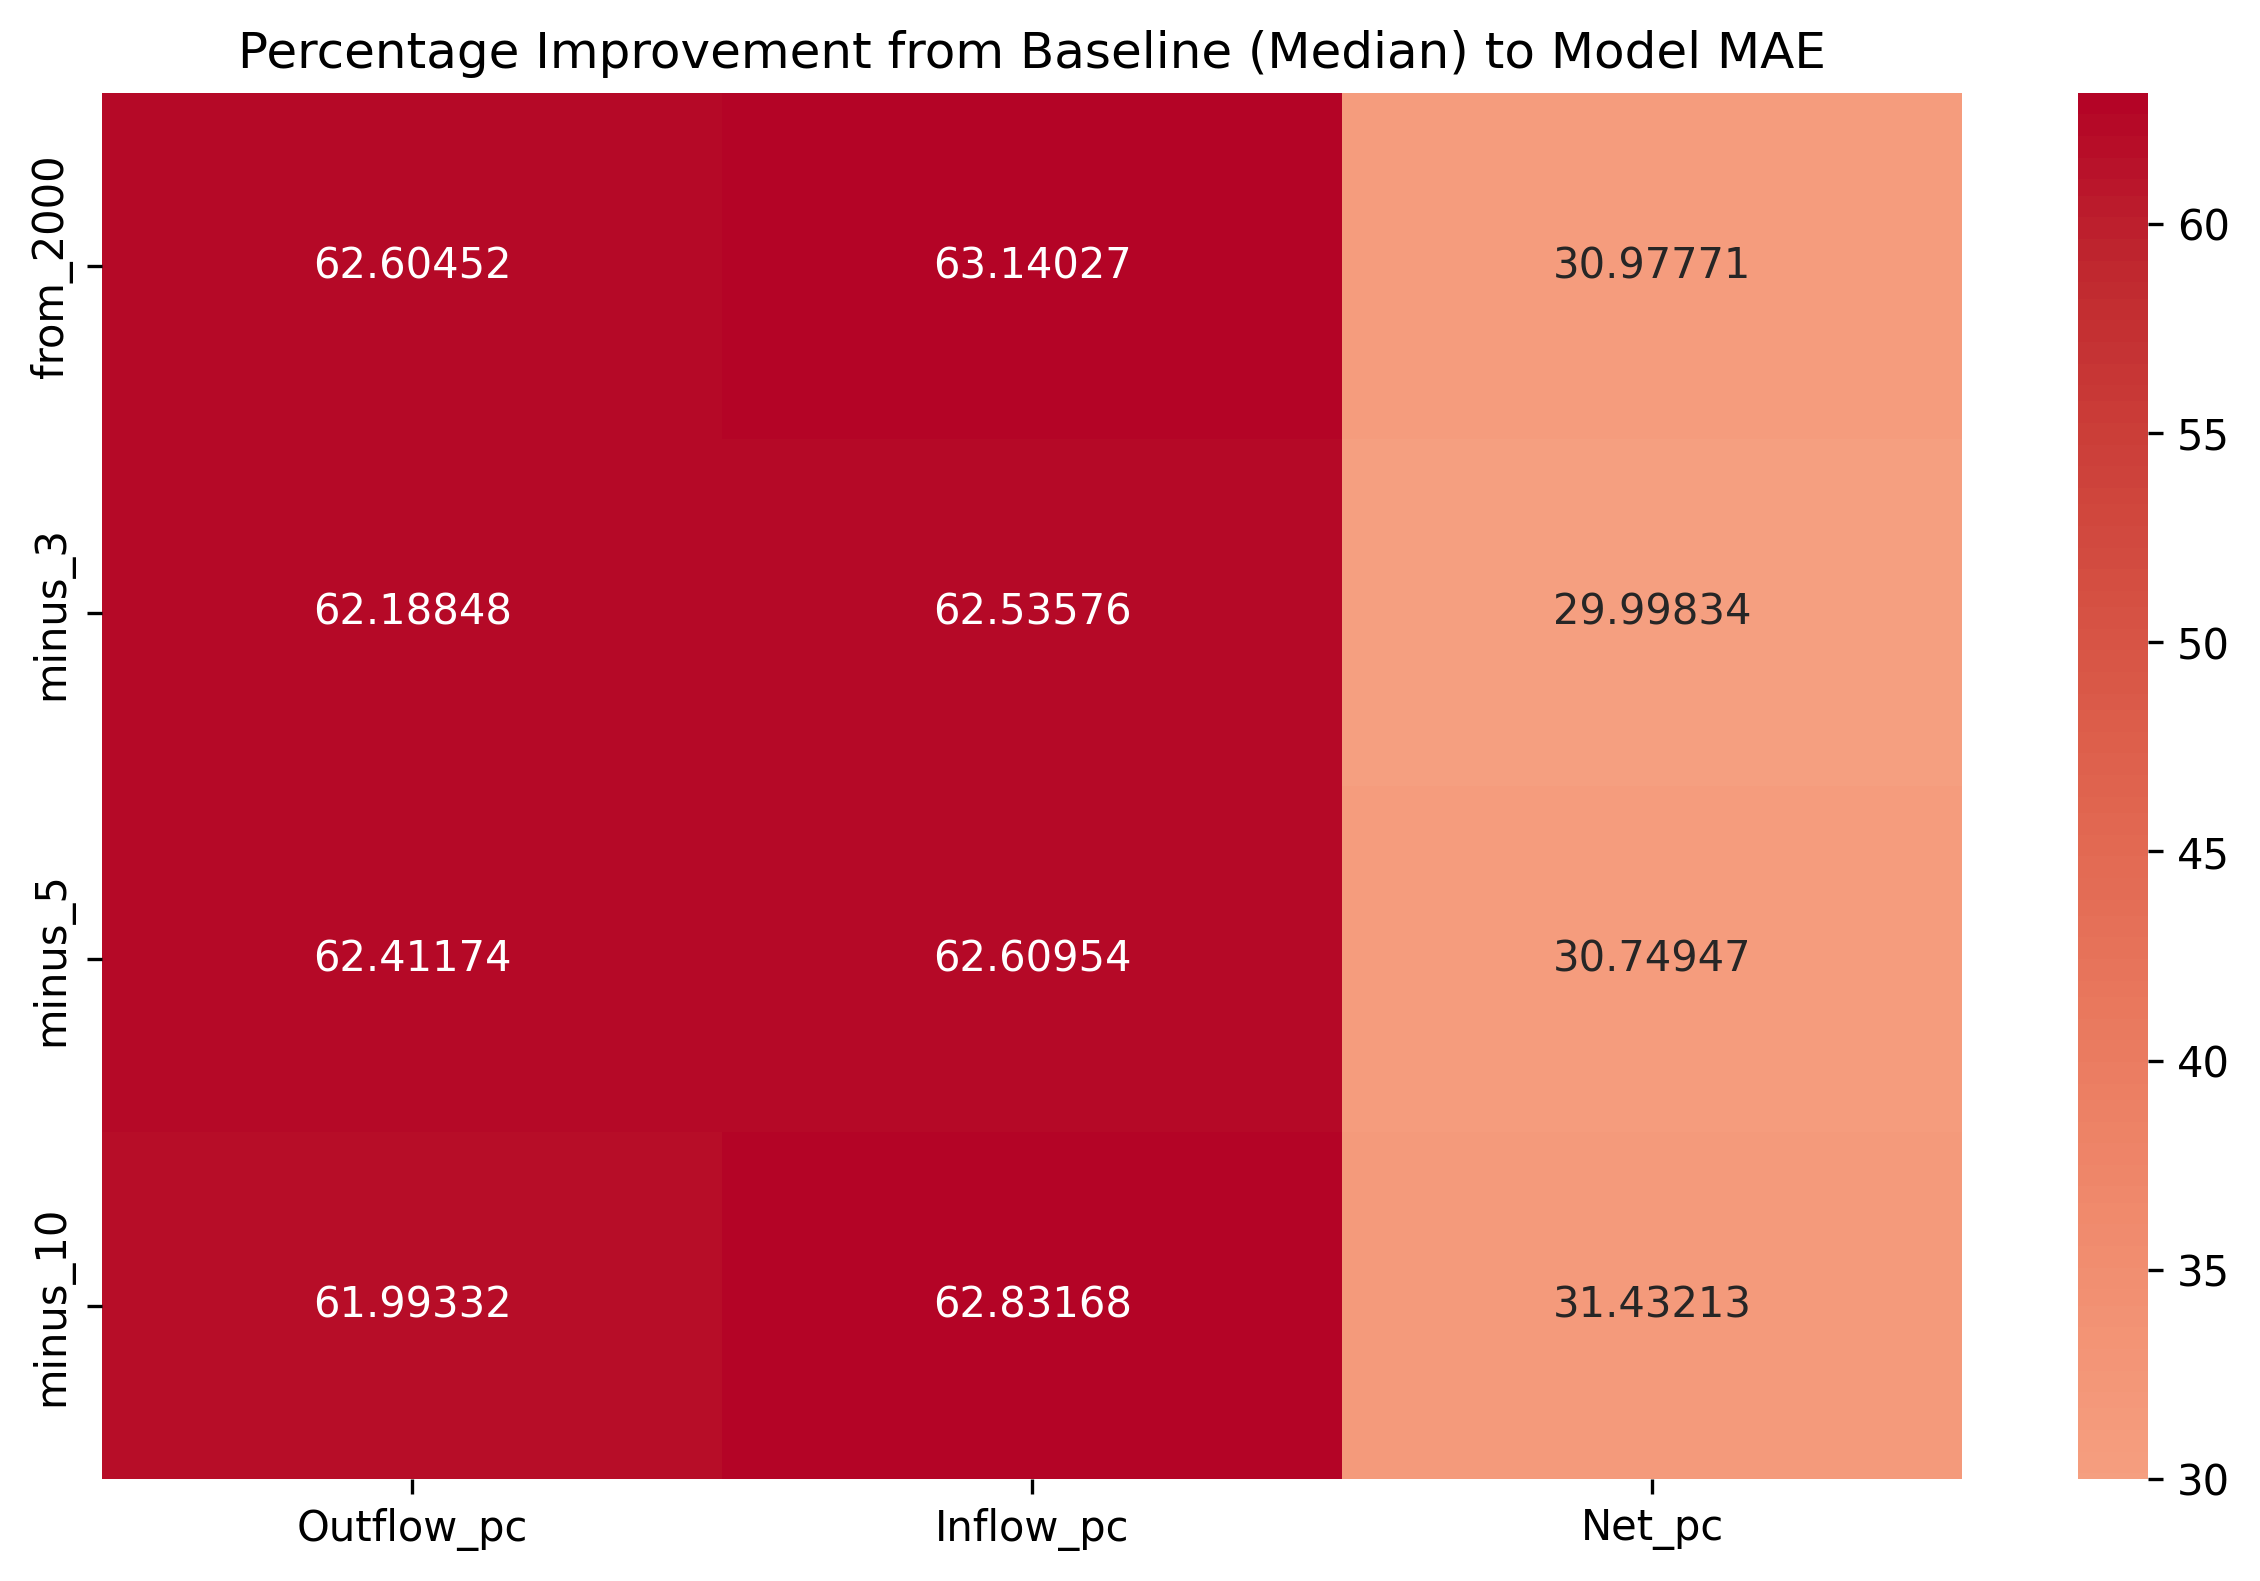
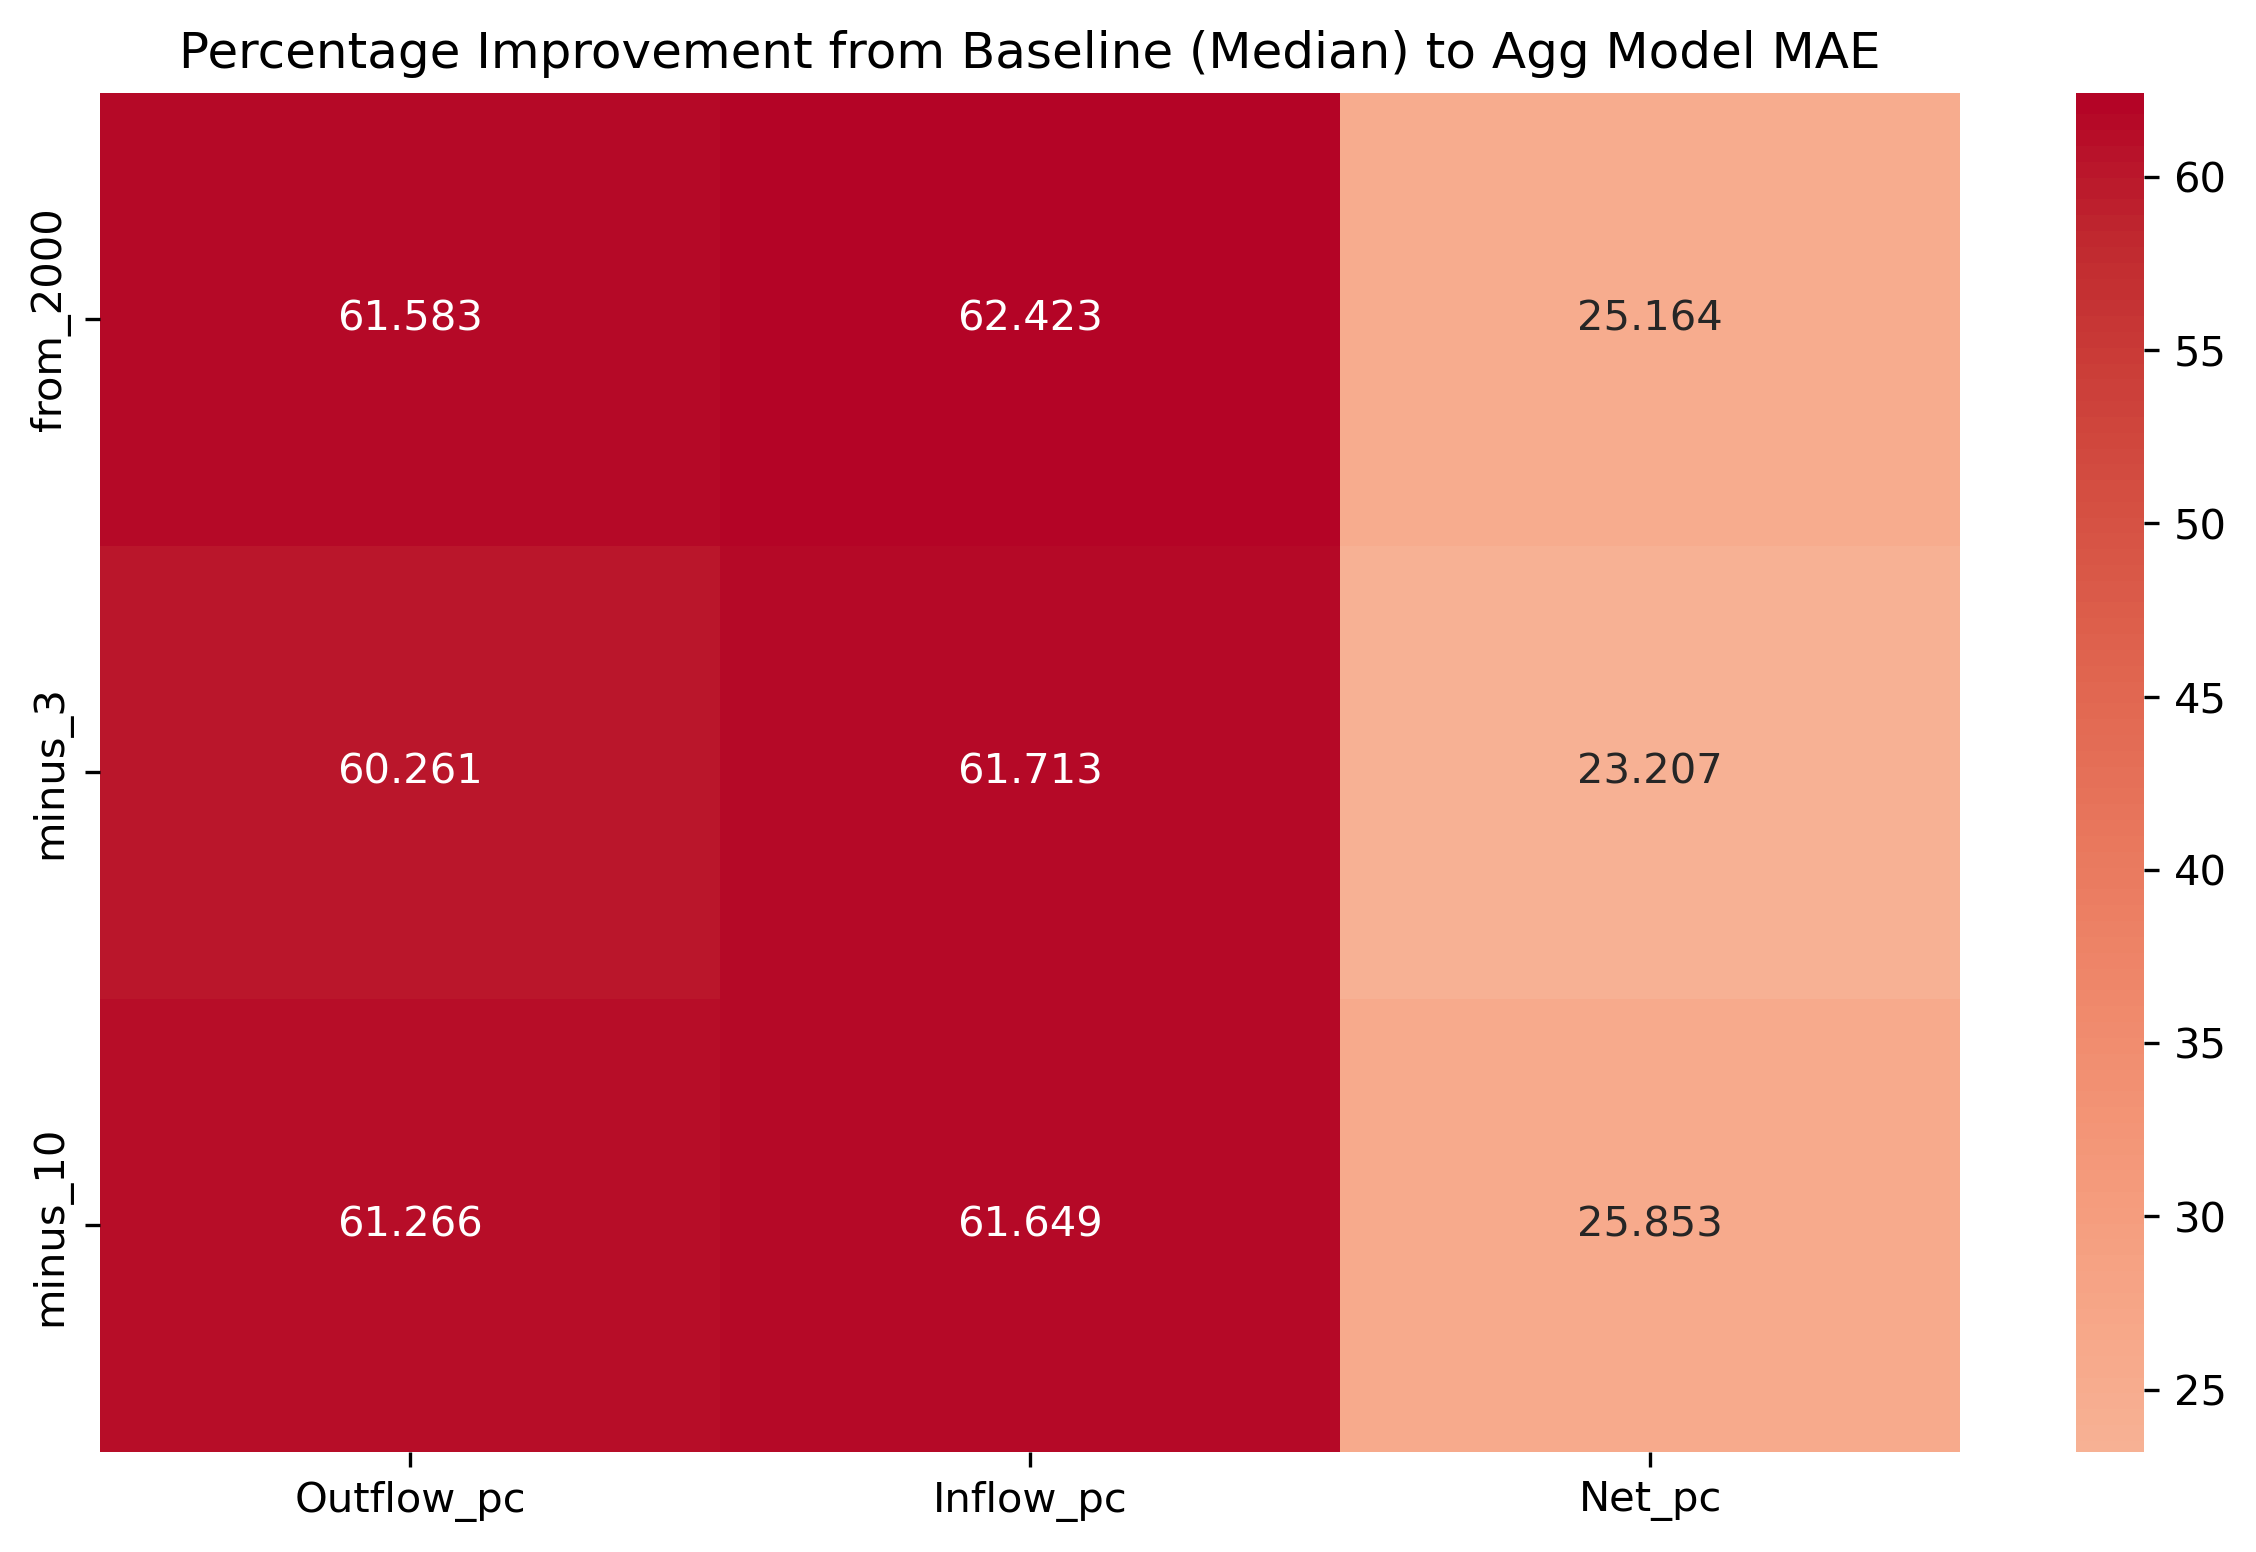
Add paradigm comparison fig

diff --git a/Code/Model_FJK/Scripts/results_figures_cross_comp.py b/Code/Model_FJK/Scripts/results_figures_cross_comp.py
@@ -1,0 +1,90 @@
+#!/usr/bin/env python3
+# -*- coding: utf-8 -*-
+"""
+Created on Fri Dec  6 11:51:50 2024
+
+@author: carinamanitius
+"""
+
+import pandas as pd
+import matplotlib.pyplot as plt
+import seaborn as sns
+import os
+
+
+##### Get WD
+ 
+def find_repo_root(start_path):
+    current_path = os.path.abspath(start_path)
+    while True:
+        # Check for the existence of the .git directory or other indicators
+        if os.path.isdir(os.path.join(current_path, '.git')) or \
+           os.path.isfile(os.path.join(current_path, 'README.md')):
+            return current_path
+       
+        parent_path = os.path.dirname(current_path)
+       
+        # Stop if we reach the root directory
+        if parent_path == current_path:
+            break
+       
+        current_path = parent_path
+ 
+    return None  # Return None if not found
+ 
+root = find_repo_root(os.getcwd())
+
+
+agg_mae = pd.read_csv(f"{root}/Data/FINAL_FOR_MODEL/FJK_Agg_Results/mae_results.csv", index_col=0)
+binned_mae = pd.read_csv(f"{root}/Data/FINAL_FOR_MODEL/FJK_Binned_Results/mae_results.csv", index_col=0)
+climate_mae = pd.read_csv(f"{root}/Data/FINAL_FOR_MODEL/FJK_Climate_Results/mae_results.csv", index_col=0)
+count_mae = pd.read_csv(f"{root}/Data/FINAL_FOR_MODEL/FJK_Count_Results/mae_results.csv", index_col=0)
+
+
+agg_mae = agg_mae.apply(pd.to_numeric, errors='coerce')
+binned_mae = binned_mae.apply(pd.to_numeric, errors='coerce')
+climate_mae = climate_mae.apply(pd.to_numeric, errors='coerce')
+count_mae = count_mae.apply(pd.to_numeric, errors='coerce')
+
+timeperiod = 'from_2000'
+
+agg_filtered = agg_mae.loc[timeperiod]
+binned_filtered = binned_mae.loc[timeperiod]
+climate_filtered = climate_mae.loc[timeperiod]
+count_filtered = count_mae.loc[timeperiod]
+
+# Combine these rows into a new DataFrame
+combined_df = pd.DataFrame({
+    'Aggregate': agg_filtered,
+    'Binned': binned_filtered,
+    'Climate Only': climate_filtered,
+    'Count': count_filtered
+})
+
+combined_df = combined_df.T
+
+
+##### PLOTS
+
+
+### MAE HEATMAP
+
+# Create a heatmap
+plt.figure(figsize=(10, 6))  # Adjust the figure size as needed
+sns.heatmap(combined_df, annot=True, cmap="YlOrRd", cbar_kws={'label': 'MAE'}, fmt=".3f")
+
+# Set plot labels and title
+plt.xlabel("Response Variable")
+plt.ylabel("Model Paradigm")
+plt.title("MAE Heatmap for Model Paradigm and Response Variables")
+
+plt.savefig(f"{root}/Figures/CM_figs/MAE_heatmap.png", dpi=300, bbox_inches='tight') 
+
+
+
+
+
+
+
+
+
